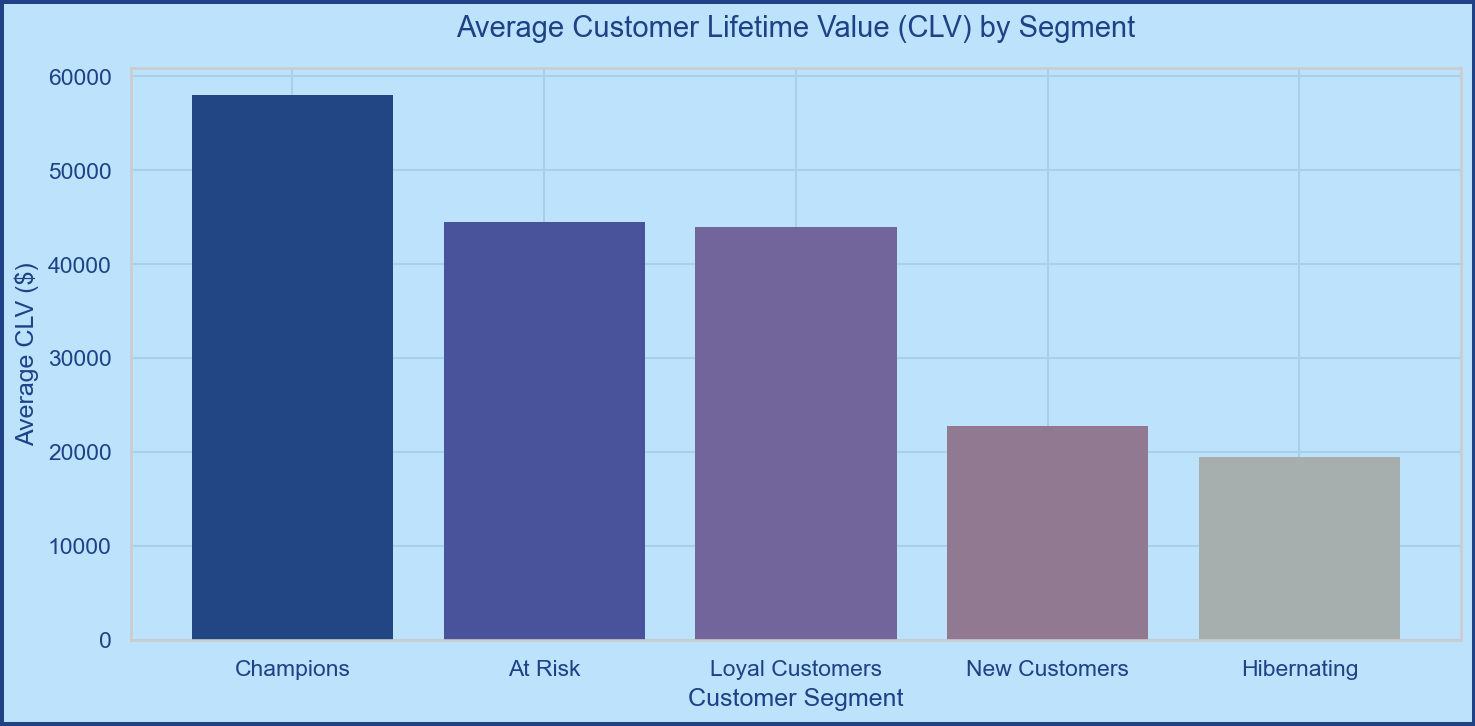
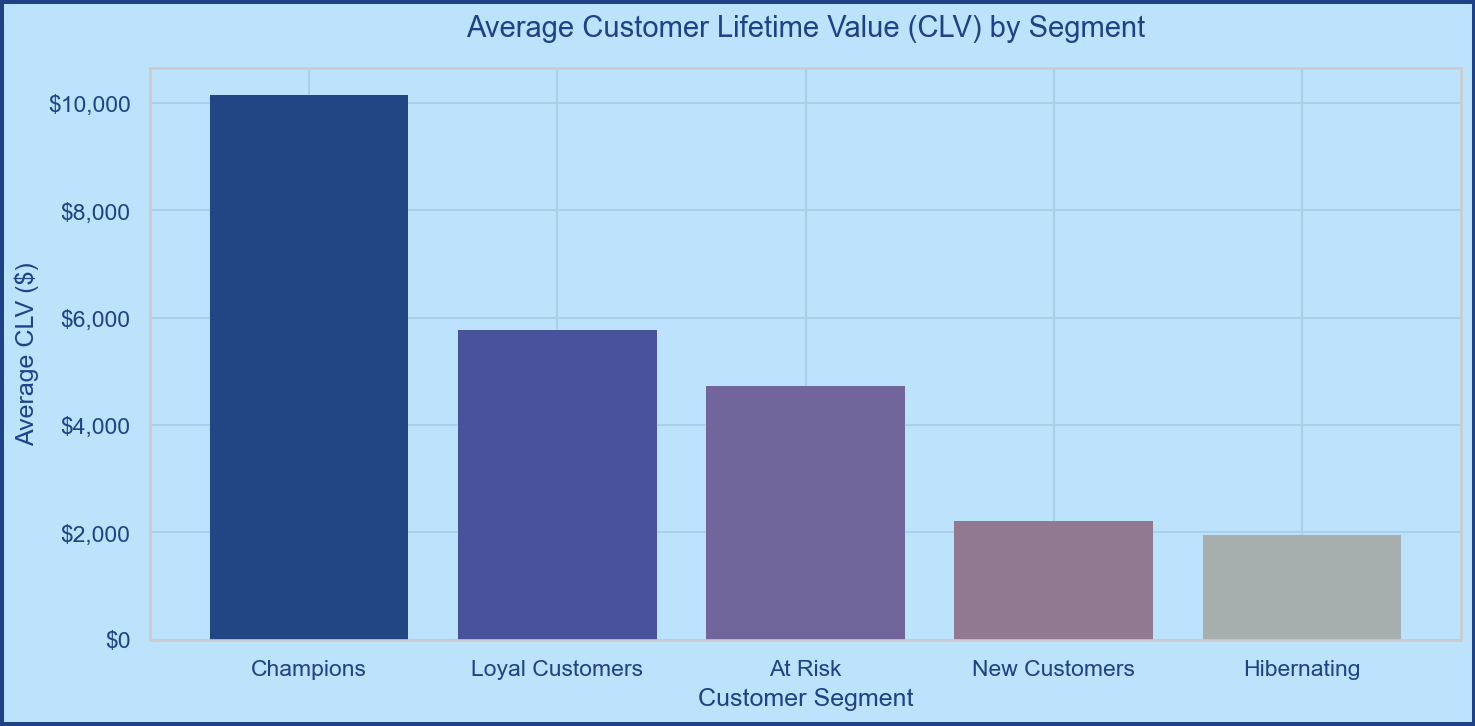
docs: generate authentic data visualizations from csv dataset

diff --git a/generate_authentic_charts.py b/generate_authentic_charts.py
@@ -1,0 +1,149 @@
+import pandas as pd
+import numpy as np
+import matplotlib.pyplot as plt
+import matplotlib.ticker as mticker
+import seaborn as sns
+from sklearn.preprocessing import StandardScaler
+from sklearn.cluster import KMeans
+from sklearn.metrics import silhouette_score
+import os
+
+def set_aesthetics():
+    sns.set_theme(style="whitegrid", palette="muted")
+    plt.rcParams.update({
+        "figure.facecolor": "#BCE3FB",
+        "axes.facecolor":   "#BCE3FB",
+        "axes.edgecolor":   "#cccccc",
+        "grid.color":       "#A8D0E6",
+        "text.color":       "#1f4287",
+        "axes.labelcolor":  "#1f4287",
+        "xtick.color":      "#1f4287",
+        "ytick.color":      "#1f4287",
+    })
+
+def decorate_fig(fig):
+    fig.patch.set_linewidth(3)
+    fig.patch.set_edgecolor('#1f4287')
+
+def main():
+    os.makedirs("assets", exist_ok=True)
+    set_aesthetics()
+    
+    # Custom colors for bars/pies
+    colors = ["#224584", "#48539B", "#71659C", "#917992", "#A6AFAE", "#3A5C8C", "#5D7B9D"]
+    
+    # ── PHASE 1: LOAD & CLEAN ACTUAL DATA
+    FILE = "retail_transactional_dataset.csv"
+    if not os.path.exists(FILE):
+        print(f"Error: {FILE} not found.")
+        return
+        
+    df = pd.read_csv(FILE)
+    df.columns = df.columns.str.strip().str.lower().str.replace(r"[\s/]+", "_", regex=True)
+    df["date"] = pd.to_datetime(df["date"], errors="coerce")
+    df["total_amount"] = pd.to_numeric(df["total_amount"], errors="coerce")
+    df.dropna(subset=["transaction_id", "customer_id", "date", "total_amount"], inplace=True)
+    
+    # Rename mapped columns for consistency with notebook
+    df = df.rename(columns={"total_amount": "total", "payment_method": "payment"})
+    
+    # ── PHASE 3: AUTHENTIC EDA CHARTS
+    
+    # Chart 1: Monthly Revenue Trend
+    df["year_month"] = df["date"].dt.to_period("M")
+    monthly = df.groupby("year_month")["total"].sum().reset_index()
+    monthly["year_month"] = monthly["year_month"].astype(str)
+    
+    fig, ax = plt.subplots(figsize=(10, 4))
+    decorate_fig(fig)
+    ax.fill_between(monthly["year_month"], monthly["total"], alpha=0.3, color="#224584")
+    ax.plot(monthly["year_month"], monthly["total"], marker="o", color="#224584", linewidth=2)
+    ax.set_title("Actual Monthly Revenue Trend", fontsize=14, pad=15)
+    ax.set_xlabel("Month", fontsize=12)
+    ax.set_ylabel("Total Revenue ($)", fontsize=12)
+    ax.yaxis.set_major_formatter(mticker.FuncFormatter(lambda x, _: f"${x:,.0f}"))
+    step = max(1, len(monthly) // 10)
+    tick_pos = list(range(0, len(monthly), step))
+    if tick_pos:
+        ax.set_xticks(tick_pos)
+        ax.set_xticklabels([monthly["year_month"].iloc[i] for i in tick_pos], rotation=45, ha="right")
+    plt.tight_layout()
+    plt.savefig("assets/revenue_trend.png", dpi=150, bbox_inches="tight")
+    plt.close()
+
+    # Chart 2: Payment Method distribution
+    if "payment" in df.columns:
+        pay_counts = df["payment"].value_counts()
+        fig, ax = plt.subplots(figsize=(8, 6))
+        decorate_fig(fig)
+        ax.pie(pay_counts, labels=pay_counts.index, autopct="%1.1f%%",
+                colors=colors[:len(pay_counts)], startangle=140,
+                wedgeprops={"edgecolor": "white", "linewidth": 1.5})
+        ax.set_title("Payment Method Share", fontsize=14, pad=15)
+        plt.tight_layout()
+        plt.savefig("assets/payment_methods.png", dpi=150, bbox_inches="tight")
+        plt.close()
+
+    # ── PHASE 4: RFM & KMEANS
+    SNAPSHOT = df["date"].max() + pd.Timedelta(days=1)
+    rfm = df.groupby("customer_id").agg(
+        Recency   = ("date", lambda x: (SNAPSHOT - x.max()).days),
+        Frequency = ("transaction_id", "nunique"),
+        Monetary  = ("total", "sum")
+    ).reset_index()
+
+    features = ["Recency", "Frequency", "Monetary"]
+    X = rfm[features]
+    scaler = StandardScaler()
+    X_scaled = scaler.fit_transform(X)
+    
+    # Run K-Means with K=5 for visual consistency
+    km = KMeans(n_clusters=5, random_state=42, n_init=10)
+    rfm["Cluster"] = km.fit_predict(X_scaled)
+    
+    # Assign names
+    profile = rfm.groupby("Cluster")[features].mean()
+    cluster_order = profile.sort_values("Monetary", ascending=False).index.tolist()
+    labels = ["Champions", "Loyal Customers", "At Risk", "New Customers", "Hibernating"]
+    label_map = {cl: labels[i] for i, cl in enumerate(cluster_order)}
+    rfm["Segment"] = rfm["Cluster"].map(label_map)
+
+    # Chart 3: Segment Sizes
+    seg_count = rfm["Segment"].value_counts().sort_values(ascending=False)
+    fig, ax = plt.subplots(figsize=(10, 5))
+    decorate_fig(fig)
+    bars = ax.barh(seg_count.index, seg_count.values, color=colors[:len(seg_count)], edgecolor="none")
+    ax.set_title("Customer Count per Segment", fontsize=14, pad=15)
+    ax.set_xlabel("# Customers", fontsize=12)
+    for bar in bars:
+        ax.text(bar.get_width() + 1, bar.get_y() + bar.get_height() / 2,
+                str(int(bar.get_width())), va="center", fontsize=10, color="#1f4287")
+    plt.tight_layout()
+    plt.savefig("assets/segment_sizes.png", dpi=150, bbox_inches="tight")
+    plt.close()
+
+    # ── PHASE 5: KPI DEVELOPMENT
+    df_seg = df.merge(rfm[["customer_id", "Segment"]], on="customer_id", how="left")
+    seg_kpi = df_seg.groupby("Segment").agg(
+        Customers     = ("customer_id", "nunique"),
+        Total_Revenue = ("total", "sum")
+    )
+    seg_kpi["CLV_avg"] = seg_kpi["Total_Revenue"] / seg_kpi["Customers"]
+    
+    # Chart 4: CLV by Segment
+    clv_data = seg_kpi["CLV_avg"].sort_values(ascending=False)
+    fig, ax = plt.subplots(figsize=(10, 5))
+    decorate_fig(fig)
+    bars = ax.bar(clv_data.index, clv_data.values, color=colors[:len(clv_data)], edgecolor="none")
+    ax.set_title("Average Customer Lifetime Value (CLV) by Segment", fontsize=14, pad=15)
+    ax.set_xlabel("Customer Segment", fontsize=12)
+    ax.set_ylabel("Average CLV ($)", fontsize=12)
+    ax.yaxis.set_major_formatter(mticker.FuncFormatter(lambda x, _: f"${x:,.0f}"))
+    plt.tight_layout()
+    plt.savefig("assets/clv_by_segment.png", dpi=150, bbox_inches="tight")
+    plt.close()
+
+    print("Authentic charts generated in assets/ directory.")
+
+if __name__ == "__main__":
+    main()

diff --git a/README.md b/README.md
@@ -106,6 +106,8 @@ data2/
 - 👤 Spend by age band & gender (heatmap bar)
 
 ![Revenue Trend](assets/revenue_trend.png)
+<br>
+![Payment Methods](assets/payment_methods.png)
 
 ### Phase 4 · RFM Analysis & K-Means Clustering *(Mohamed)*
 **RFM Scoring:**
@@ -119,6 +121,8 @@ data2/
 - Optimal k via Elbow Method + Silhouette Score (k=2–9 tested)
 - Interactive 3-D scatter plot (Plotly)
 - Business labels assigned by Monetary rank: **Champions → Loyal Customers → At-Risk → Lost → New → Potential Loyalists**
+
+![Segment Sizes](assets/segment_sizes.png)
 
 ### Phase 5 · KPI Development *(Mohamed)*
 
